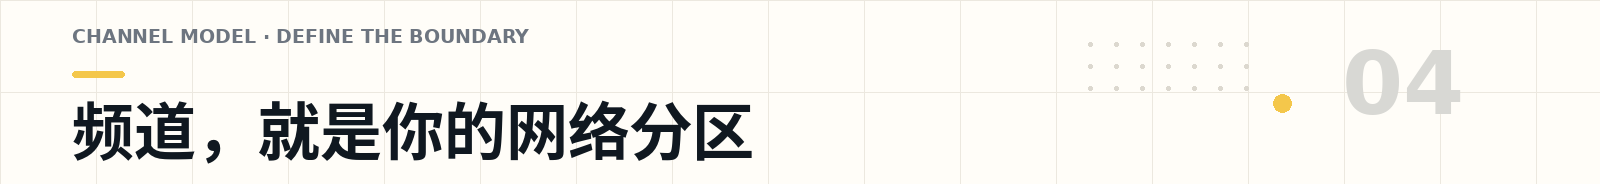
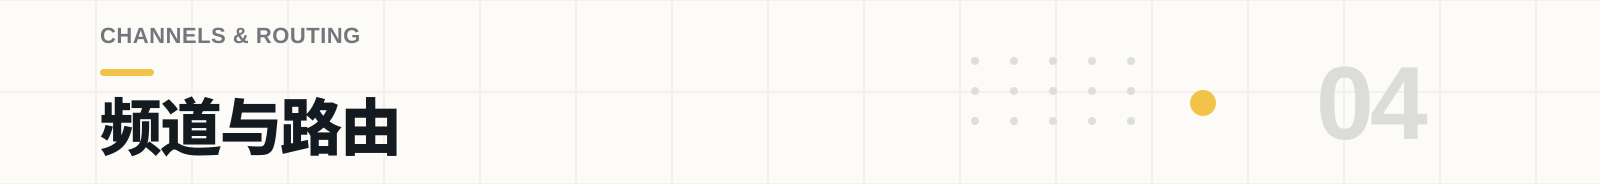
docs: use image-based README section headings

diff --git a/README.md b/README.md
@@ -5,8 +5,8 @@
 <h1 align="center">NovaLink</h1>
 
 <p align="center">
-  <strong>一个网络。每一台服务器。</strong><br />
-  为多端 Minecraft 社区准备的聊天路由、频道治理与运营控制基础设施。
+  <strong>多端 Minecraft 社区的聊天路由、频道治理与运营控制基础设施。</strong><br />
+  提供中心后端与多平台 NovaChat 接入模块。
 </p>
 
 <p align="center">
@@ -29,13 +29,16 @@
 </p>
 
 > [!TIP]
-> **NovaLink 是网络中心，NovaChat 是平台侧的接入层。** 你不需要让每一种服务端、代理或模组各自维护一套聊天逻辑；把它们接到同一个路由核心，协议、认证、频道、消息与运营边界就有了统一的归宿。
+> **NovaLink 后端负责认证、频道、路由、持久化和管理控制；NovaChat 负责各平台的接入。** 接入端通过 NovaProtocol 连接后端，使不同平台使用同一套网络规则。
 
-## 为多端服务器网络而生
+<a id="overview"></a>
+<p align="center">
+  <img src="assets/readme/sections/section-00-overview.png" alt="项目概览" width="100%" />
+</p>
 
-当一个社区同时有 Java 服务端、代理、Bedrock 服务端和模组环境时，聊天往往最先失控：同一条公告要复制好几遍，权限规则散在不同配置里，频道状态跟着平台走，排查问题时也没人说得清消息到底经过了哪里。
+当一个社区同时运行 Java 服务端、代理、Bedrock 服务端和模组环境时，聊天公告、权限规则和频道状态通常分散在多个平台配置中。这样会增加重复配置、跨服路由和问题排查的成本。
 
-NovaLink 的目标很直接：**把平台差异留在边缘，把网络规则留在中心。** 所有 NovaChat 客户端通过 **NovaProtocol v1** 接入同一个后端；一条消息只需要知道自己来自哪里、属于哪个频道、谁有资格收到它，剩下的由路由核心处理。
+NovaLink 将平台接入与中心路由分离。所有 NovaChat 客户端通过 **NovaProtocol v1** 接入同一个后端；后端根据消息来源、频道和权限处理路由与运营规则。
 
 ### 你会得到什么
 
@@ -47,10 +50,10 @@ NovaLink 的目标很直接：**把平台差异留在边缘，把网络规则留
 
 <a id="architecture"></a>
 <p align="center">
-  <img src="assets/readme/sections/section-01-architecture.png" alt="章节 01：从一条消息到整个网络" width="100%" />
+  <img src="assets/readme/sections/section-01-architecture.png" alt="系统架构" width="100%" />
 </p>
 
-从平台看，NovaChat 只是一个熟悉的插件、模组或扩展；从网络看，它们都在说同一种协议。这样做不是为了把每个端做得一模一样，而是为了让它们在接入后遵守同一套网络规则。
+NovaChat 以插件、模组或扩展的形式运行在目标平台中，并通过共享的 NovaProtocol 与后端通信。平台保留各自的生命周期与玩家 API，后端统一处理网络级规则。
 
 ```mermaid
 flowchart LR
@@ -87,20 +90,20 @@ flowchart LR
     class W,D ops;
 ```
 
-依赖方向也保持克制：共享协议层给后端和客户端共同使用；客户端运行时只服务于插件与模组；中心后端只依赖共享协议层，不把任何平台 API 带进核心服务。这样一来，平台可以继续演进，网络边界却不会被拖散。
+共享协议层由后端和客户端共同使用；客户端运行时服务于插件与模组；中心后端只依赖共享协议层，不引入平台 API。该依赖方向用于保持平台适配与核心服务解耦。
 
-### 后端短暂离线，不该让每个端都靠人盯着
+### 连接恢复与重连
 
 接入端的运行时会处理握手、KeepAlive、连接状态和重连策略。意外断开时，它会按指数退避等待后再次连接，延迟从 1 秒逐步增长并封顶在 30 秒；连续多次失败后停止重试并留下明确日志。显式停止则不会偷偷重连——这是一次真正的关闭，而不是一次事故。
 
-这套机制不取代你的监控系统，但能让网络恢复时不必逐个服务端手动“救火”。详细的连接生命周期、平台边界与重连约定见 [`NovaChat/client-core/DESIGN.md`](NovaChat/client-core/DESIGN.md)。
+该机制不替代监控系统。详细的连接生命周期、平台边界与重连约定见 [`NovaChat/client-core/DESIGN.md`](NovaChat/client-core/DESIGN.md)。
 
 <a id="get-started"></a>
 <p align="center">
-  <img src="assets/readme/sections/section-02-get-started.png" alt="章节 02：三步接入" width="100%" />
+  <img src="assets/readme/sections/section-02-get-started.png" alt="快速开始" width="100%" />
 </p>
 
-第一次接入不需要先理解所有模块。先让中心后端跑起来，再把平台客户端对准它；其余能力可以随着你的网络逐步打开。
+最小接入验证只需要启动中心后端，并接入一个平台客户端。完成身份、频道和消息路径验证后，再逐步启用其他能力。
 
 ### 01 — 构建中心后端
 
@@ -117,13 +120,13 @@ cd NovaLink
 
 构建完成后，可直接运行的 fat JAR 位于 `StarLink/core/build/libs/*-all.jar`。它包含 NovaLink 后端所需依赖，因此不需要额外拼装运行时。
 
-### 02 — 先定义你的网络边界
+### 02 — 创建并配置 `novalink.yml`
 
 ```bash
 cp examples/novalink.yml novalink.yml
 ```
 
-先从示例配置开始，再替换 `server.secret-key`、数据库凭据与 `clients` 中的客户端凭据。小型或本地环境可以使用 `sqlite` 或 `memory`；当网络开始承载真实玩家时，请换成持久化存储、限制允许访问的 IP/CIDR，并把密钥交给受控配置管理系统。
+从示例配置开始，替换 `server.secret-key`、数据库凭据与 `clients` 中的客户端凭据。小型或本地环境可以使用 `sqlite` 或 `memory`；生产环境应使用持久化存储、限制允许访问的 IP/CIDR，并通过受控配置管理系统管理密钥。
 
 ```yaml
 server:
@@ -143,7 +146,7 @@ clients:
     display_name: "Survival"
 ```
 
-### 03 — 启动后端，再接入平台客户端
+### 03 — 启动后端并配置平台客户端
 
 ```bash
 # 默认读取当前工作目录中的 novalink.yml
@@ -160,10 +163,10 @@ java -jar StarLink/core/build/libs/*-all.jar /opt/novalink/novalink.yml
 
 <a id="system-map"></a>
 <p align="center">
-  <img src="assets/readme/sections/section-03-system-map.png" alt="章节 03：模块地图" width="100%" />
+  <img src="assets/readme/sections/section-03-system-map.png" alt="模块结构" width="100%" />
 </p>
 
-仓库并不只有一个后端 JAR。下面这张地图的作用不是让你记住目录，而是帮你在需要改动时更快找到“应该改在哪里”。
+仓库包含后端、共享协议、平台接入端、管理面板和真实环境验证模块。下表列出各模块的主要职责与常见修改入口。
 
 | 当你想处理…… | 先看这里 | 它负责什么 |
 | --- | --- | --- |
@@ -173,7 +176,7 @@ java -jar StarLink/core/build/libs/*-all.jar /opt/novalink/novalink.yml
 | 管理控制面 | [`Panel/web`](Panel/web) | React + Vite 管理面板，用于登录、观测和日常运营操作。 |
 | 真实环境验证 | [`e2e`](e2e) | 可选的真实服务器、机器人与多平台端到端验证编排。 |
 
-### 已覆盖的平台边缘
+### 平台适配目录
 
 | 平台族 | 目录 | 接入形态 |
 | --- | --- | --- |
@@ -189,10 +192,10 @@ java -jar StarLink/core/build/libs/*-all.jar /opt/novalink/novalink.yml
 
 <a id="channels"></a>
 <p align="center">
-  <img src="assets/readme/sections/section-04-channels.png" alt="章节 04：频道，就是你的网络分区" width="100%" />
+  <img src="assets/readme/sections/section-04-channels.png" alt="频道与路由" width="100%" />
 </p>
 
-频道不只是聊天窗口的名字。在 NovaLink 里，频道就是消息该走到哪里、谁能看到、谁能管理的边界。先把范围说清楚，后续的权限、禁言、世界限制和私密会话才有稳定的落点。
+频道定义消息的路由范围、可见范围和管理边界。频道作用域确定后，权限、禁言、世界限制和私密会话才能按一致规则处理。
 
 | 频道范围 | 适合放什么 | 路由边界 |
 | --- | --- | --- |
@@ -203,16 +206,16 @@ java -jar StarLink/core/build/libs/*-all.jar /opt/novalink/novalink.yml
 
 当运营需要介入时，中心后端可以在同一条边界上处理认证、权限、禁言、踢出和路由决定，而不必先判断消息来自哪一种服务端。频道、模板、客户端与全局权限都由 `novalink.yml` 定义；完整字段、数据库选项与功能开关见 [`examples/novalink.yml`](examples/novalink.yml)。
 
-### 聊天不止是“把一段文字发出去”
+### 消息扩展与呈现
 
-共享协议层已经为提及、物品展示、格式模板和扩展留好了位置。它们的共同目标是让不同平台收到同一条消息时，仍能保留一致的语义，而不是只剩下一段被降级的纯文本。具体的展示方式依然应由各平台自己决定——毕竟玩家看到的是平台 UI，而不是网络协议。
+共享协议层支持提及、物品展示、格式模板和扩展。不同平台可以基于自身 UI 实现相应呈现方式，同时保留消息的通用语义。
 
 <a id="operations"></a>
 <p align="center">
-  <img src="assets/readme/sections/section-05-operations.png" alt="章节 05：部署与运营" width="100%" />
+  <img src="assets/readme/sections/section-05-operations.png" alt="部署与运营" width="100%" />
 </p>
 
-NovaLink 可以从一台本地服务器开始，也可以随着社区规模把数据、反向代理和控制面拆开。关键不是一开始就把部署做得复杂，而是让每一步都有清晰的边界。
+NovaLink 可从单台本地服务器开始部署，也可根据社区规模拆分数据层、反向代理和控制面。部署时应明确数据面、控制面、存储和管理入口的网络边界。
 
 ### 后端与数据层
 
@@ -239,10 +242,10 @@ npm run build
 
 <a id="build-verify"></a>
 <p align="center">
-  <img src="assets/readme/sections/section-06-build-verify.png" alt="章节 06：开发与验证" width="100%" />
+  <img src="assets/readme/sections/section-06-build-verify.png" alt="开发与验证" width="100%" />
 </p>
 
-如果你准备改协议、路由或平台适配，先把最接近改动的验证跑起来。下面的命令按从日常构建到真实环境验证的顺序排列；不需要为了改一处文案就启动一套真实 Minecraft 集群。
+修改协议、路由或平台适配时，应选择与改动范围相符的验证方式。下列命令按日常构建到真实环境验证的范围排列；文档或小范围修改通常不需要启动真实 Minecraft 集群。
 
 | 你要确认什么 | 命令 |
 | --- | --- |
@@ -255,7 +258,10 @@ npm run build
 
 项目同时维护单元、属性、集成和真实服务端 E2E 的分层验证路径。真实 E2E 是显式选择的任务，需要真实 Minecraft 服务端文件、机器人进程、Node.js、匹配的 JDK 与平台运行环境；它很有价值，但不应被当作每次本地修改都必须执行的脚本。环境前提和编排方式见 [`e2e/README.md`](e2e/README.md) 与 [`docs/REAL-SERVER-E2E.md`](docs/REAL-SERVER-E2E.md)。
 
-## 项目资源与协作
+<a id="resources"></a>
+<p align="center">
+  <img src="assets/readme/sections/section-07-resources.png" alt="项目资源与协作" width="100%" />
+</p>
 
 | 如果你正在…… | 从这里开始 |
 | --- | --- |
@@ -267,8 +273,11 @@ npm run build
 | 从快速接入、部署、运维或 API 文档开始 | [`docs/README.md`](docs/README.md) |
 | 查阅架构、测试、国际化与 UX 记录 | [`docs`](docs) |
 
-贡献前，先在 [Issues](https://github.com/XingLingQAQ/NovaLink/issues) 中看看是否已有类似需求、缺陷或平台兼容性讨论。提交 PR 时，说明你影响了哪些平台、改了哪些配置、跑过什么验证，以及还有哪些已知限制。也请不要把真实密码、JWT 密钥、数据库凭据、私有 IP 或生产 Webhook 放进 Issue、示例配置或测试日志。
+提交贡献前，请在 [Issues](https://github.com/XingLingQAQ/NovaLink/issues) 中确认是否已有类似需求、缺陷或平台兼容性讨论。提交 PR 时应说明受影响的平台、配置或接口、已执行的验证以及仍未验证的限制。不要在 Issue、示例配置或测试日志中提交真实密码、JWT 密钥、数据库凭据、私有 IP 或生产 Webhook。
 
-## 许可证
+<a id="license"></a>
+<p align="center">
+  <img src="assets/readme/sections/section-08-license.png" alt="许可证" width="100%" />
+</p>
 
-NovaLink 以 [MIT License](LICENSE) 发布。你可以在遵守许可证的前提下使用、修改和分发它；如果它帮你的服务器网络少踩了一点坑，也欢迎把改进带回来。
+NovaLink 以 [MIT License](LICENSE) 发布。你可以在遵守许可证的前提下使用、修改和分发本项目。
